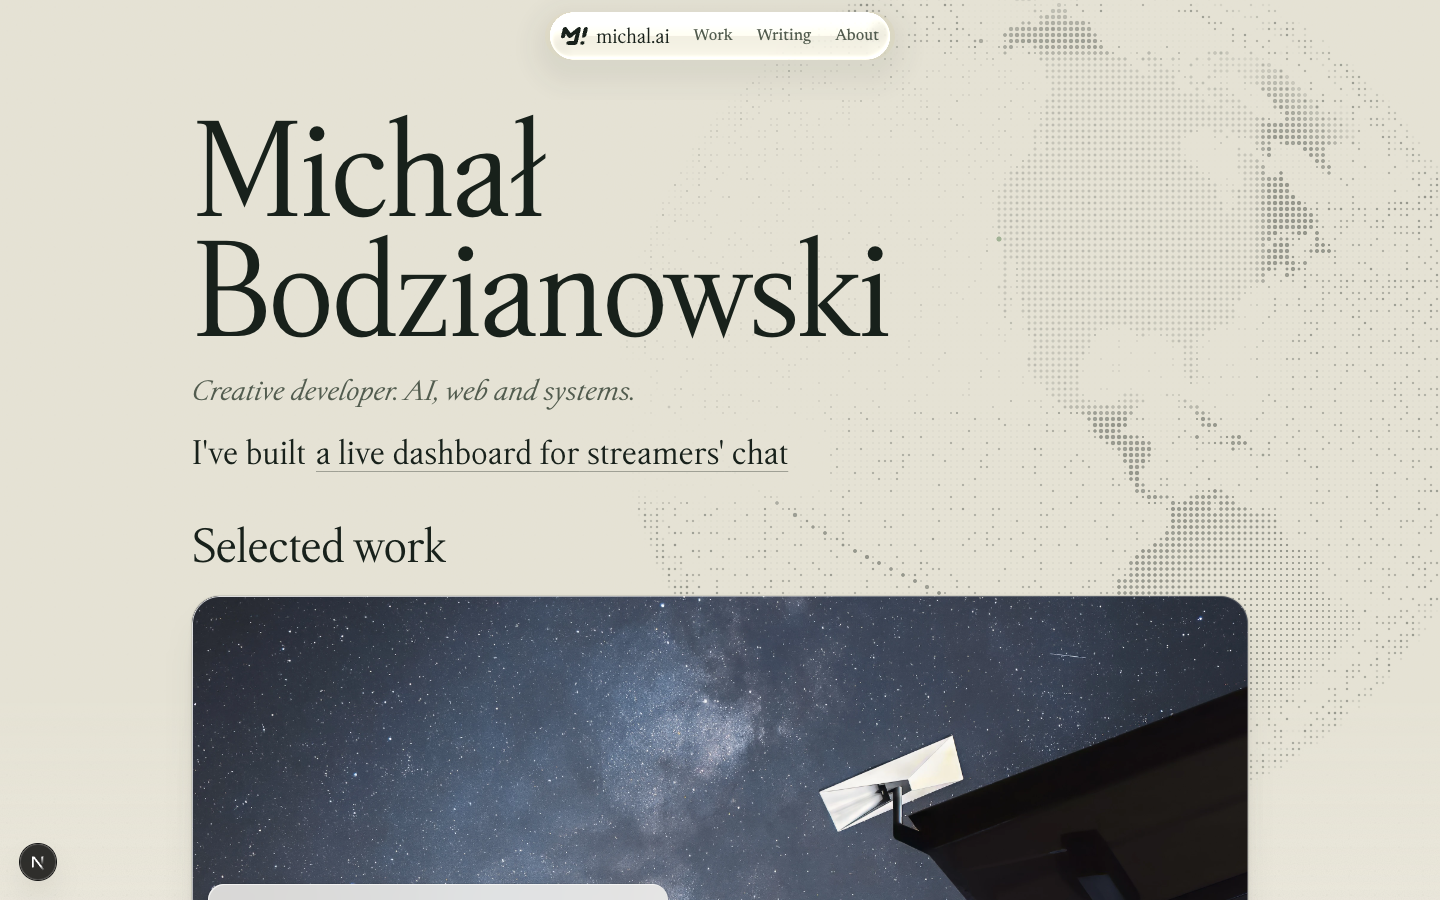
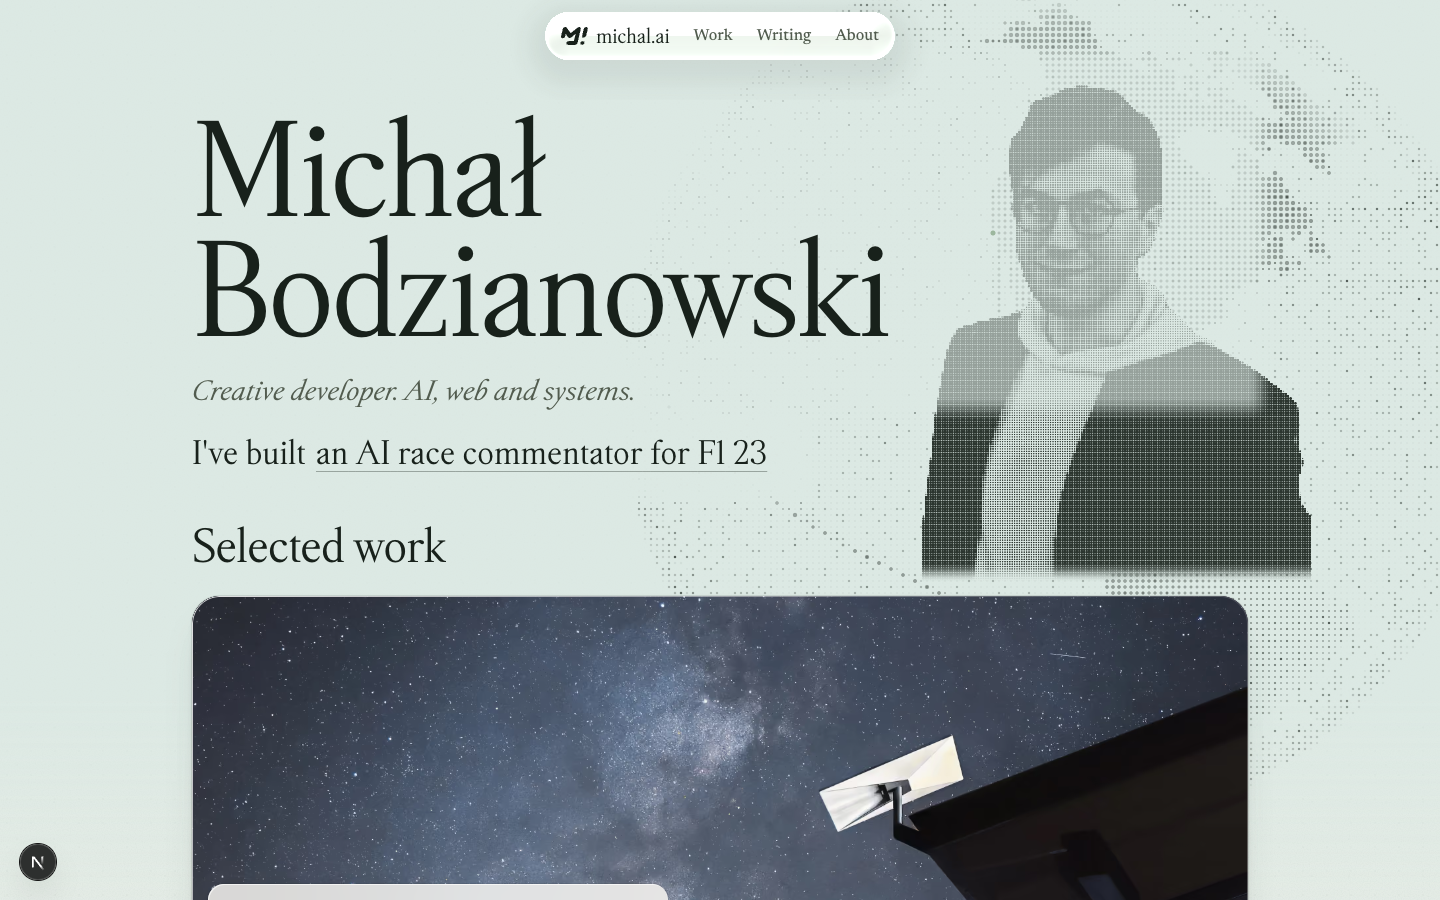
Hero globe: dots/glyph switch, phone circle tweak, final screenshots

diff --git a/apps/michal-ai/components/presence/HeroGlobe.tsx b/apps/michal-ai/components/presence/HeroGlobe.tsx
@@ -183,10 +183,10 @@ export function HeroGlobe({ pins = PRESENCE_PINS, mock = false, variant = 'slot'
     } else {
       const h1 = document.querySelector<HTMLElement>('h1[data-hero-text]')?.getBoundingClientRect()
       const box = document.querySelector<HTMLElement>('h1[data-hero-text]')?.parentElement?.getBoundingClientRect()
-      const D = Math.max(64, Math.min(100, Math.round(vw * 0.22)))
+      const D = Math.max(64, Math.min(96, Math.round(vw * 0.2)))
       width = height = D
       left = (box?.right ?? vw - 16) - D
-      bottom = (h1?.top ?? 84) - 4 + D
+      bottom = (h1?.top ?? 84) - 10 + D
       cellW = 1.7
       circle = true
       crop = [0.148, 0.1, 0.688, 0.505]
@@ -194,11 +194,15 @@ export function HeroGlobe({ pins = PRESENCE_PINS, mock = false, variant = 'slot'
     }
     // Glyphs where they resolve (desktop); density dots on a square grid in the small circle, where a glyph would be a smudge.
     const cellH = cellW / s.portrait.aspect
-    const dots = circle || new URLSearchParams(window.location.search).get('portrait') === 'dots' || cellH * sc < 4.5
+    // Measured: at 1x the glyphs (5-6 px tall) smear into a texture and the face is lost; halftone dots on a square 2.4 px grid hold the likeness.
+    // From 1.5x device pixels the glyphs resolve, so desktop gets real monospace glyphs there. `?portrait=dots|glyphs` forces one.
+    const force = new URLSearchParams(window.location.search).get('portrait')
+    const dots = circle || force === 'dots' || (force !== 'glyphs' && sc < 1.4)
+    const sq = circle ? cellW : Math.min(cellW, 2.4)
     s.pspec = {
       rect: [(left - w.left) * sc, px - (bottom - w.top) * sc, width * sc, height * sc],
       crop,
-      cell: dots ? [cellW * sc, cellW * sc] : [cellW * sc, cellH * sc],
+      cell: dots ? [sq * sc, sq * sc] : [cellW * sc, cellH * sc],
       circle,
       dots,
       strength,

diff --git a/apps/michal-ai/docs/presence.md b/apps/michal-ai/docs/presence.md
@@ -126,6 +126,17 @@ Pointer push: `window` `pointermove` only (the canvas stays `pointer-events: non
 
 Not verified: behaviour on a real GPU (screenshots are software GL), a real Cron execution (needs a deploy), and the first CelesTrak fetch from a Worker (CelesTrak may rate-limit shared Cloudflare egress IPs; if so the Worker keeps the static snapshot).
 
+## Portrait over the globe
+
+A figure of the owner in the same canvas, rendered as monospace glyphs (desktop) or density dots (the phone circle), with the globe's pointer push.
+
+- Asset pipeline (offline, committed output only): `swift scripts/portrait-matte.swift <photo> <matte.png>` (Apple Vision `VNGenerateForegroundInstanceMaskRequest`, macOS 14+, nothing to install), then `node scripts/build-portrait.mjs <photo> <matte.png>` writes `public/globe/portrait.webp`, 384x512, greyscale + alpha (matte eroded about 1 px and feathered), luminance half plain / half local contrast (CLAHE) so eyes, glasses, hairline and jaw separate while skin stays soft. The full-resolution photo and matte are not committed. The matte was checked by eye (hair edge, glasses, shoulders were clean; no halo visible).
+- Glyphs: `globe/portrait.ts` builds the atlas at runtime in a 2D canvas from `ui-monospace, "SF Mono", SFMono-Regular, Menlo, Consolas, "Liberation Mono", monospace`, so Apple devices draw their own installed SF Mono and others their system mono; no font file or glyph image of a licensed face is committed. The cell aspect is measured (advance over line height), and 12 glyphs are chosen from a candidate set by measured ink coverage so the ramp is right for whichever face resolves. Built once after the globe is up and fonts are ready.
+- Shader: a second program in the same canvas, scissored to the figure's rectangle. Draw 1 is a knockout (`dst *= 1 - matte`), so the globe and satellites give way behind him; draw 2 picks a glyph per cell from a 5-tap luminance average. Cells need not align with the globe's grid (3.2 x 5.7 CSS px on desktop). Pointer push: radius 90 px, maximum 5 px (the globe's is 100 and 12). Text-aware dimming applies to the portrait too, so it never fights the hero text.
+- Opacity: the canvas now draws at full opacity and the shader multiplies the globe by the old CSS opacity (`--hero-globe-opacity`, read at resize), so the portrait can be stronger than the globe. `.hero-globe[data-mode='gl']` sets the wrapper to opacity 1; the still PNG keeps the old behaviour.
+- Placement: from 768 px wide the figure is bottom-anchored just above the first card row (`#work-h` bottom + 10 px; the bottom edge dots fade over 20 px), about 520 px tall at 1440x900, centred on the globe's disc. Below 768 px a circle (about 22% of the viewport width, 64 to 100 px) sits to the right of the name, right edge on the header's right edge, drawn as density dots on a square 1.7 px grid with a soft dot-fade edge; the globe's dots give way inside it. No portrait without WebGL (the fallback PNG is unchanged); under reduced motion it is drawn once.
+- Known limits: at 3.2 px cells there are about 50 cells across the face on desktop, not 70 to 90: real glyph shapes do not resolve below about 5 px tall, so a finer grid would have to be dots. `?portrait=dots` (any build) switches desktop to dots to compare.
+
 ## My view of the globe
 
 The calm dot globe reads clean and professional in the zoom crop, and the Hawthorne dot lands on the California coast. It is also generic: it looks like any point globe. It is deliberately not "sketched"; the earlier ink/hatch version had no professional precedent and was dropped on instruction. The poles show convergence streaks of graticule lines, the outline is a little heavier than the dots, and dot size does not shrink with foreshortening near the limb as much as a polished version would. Not yet compared against a studied reference.
